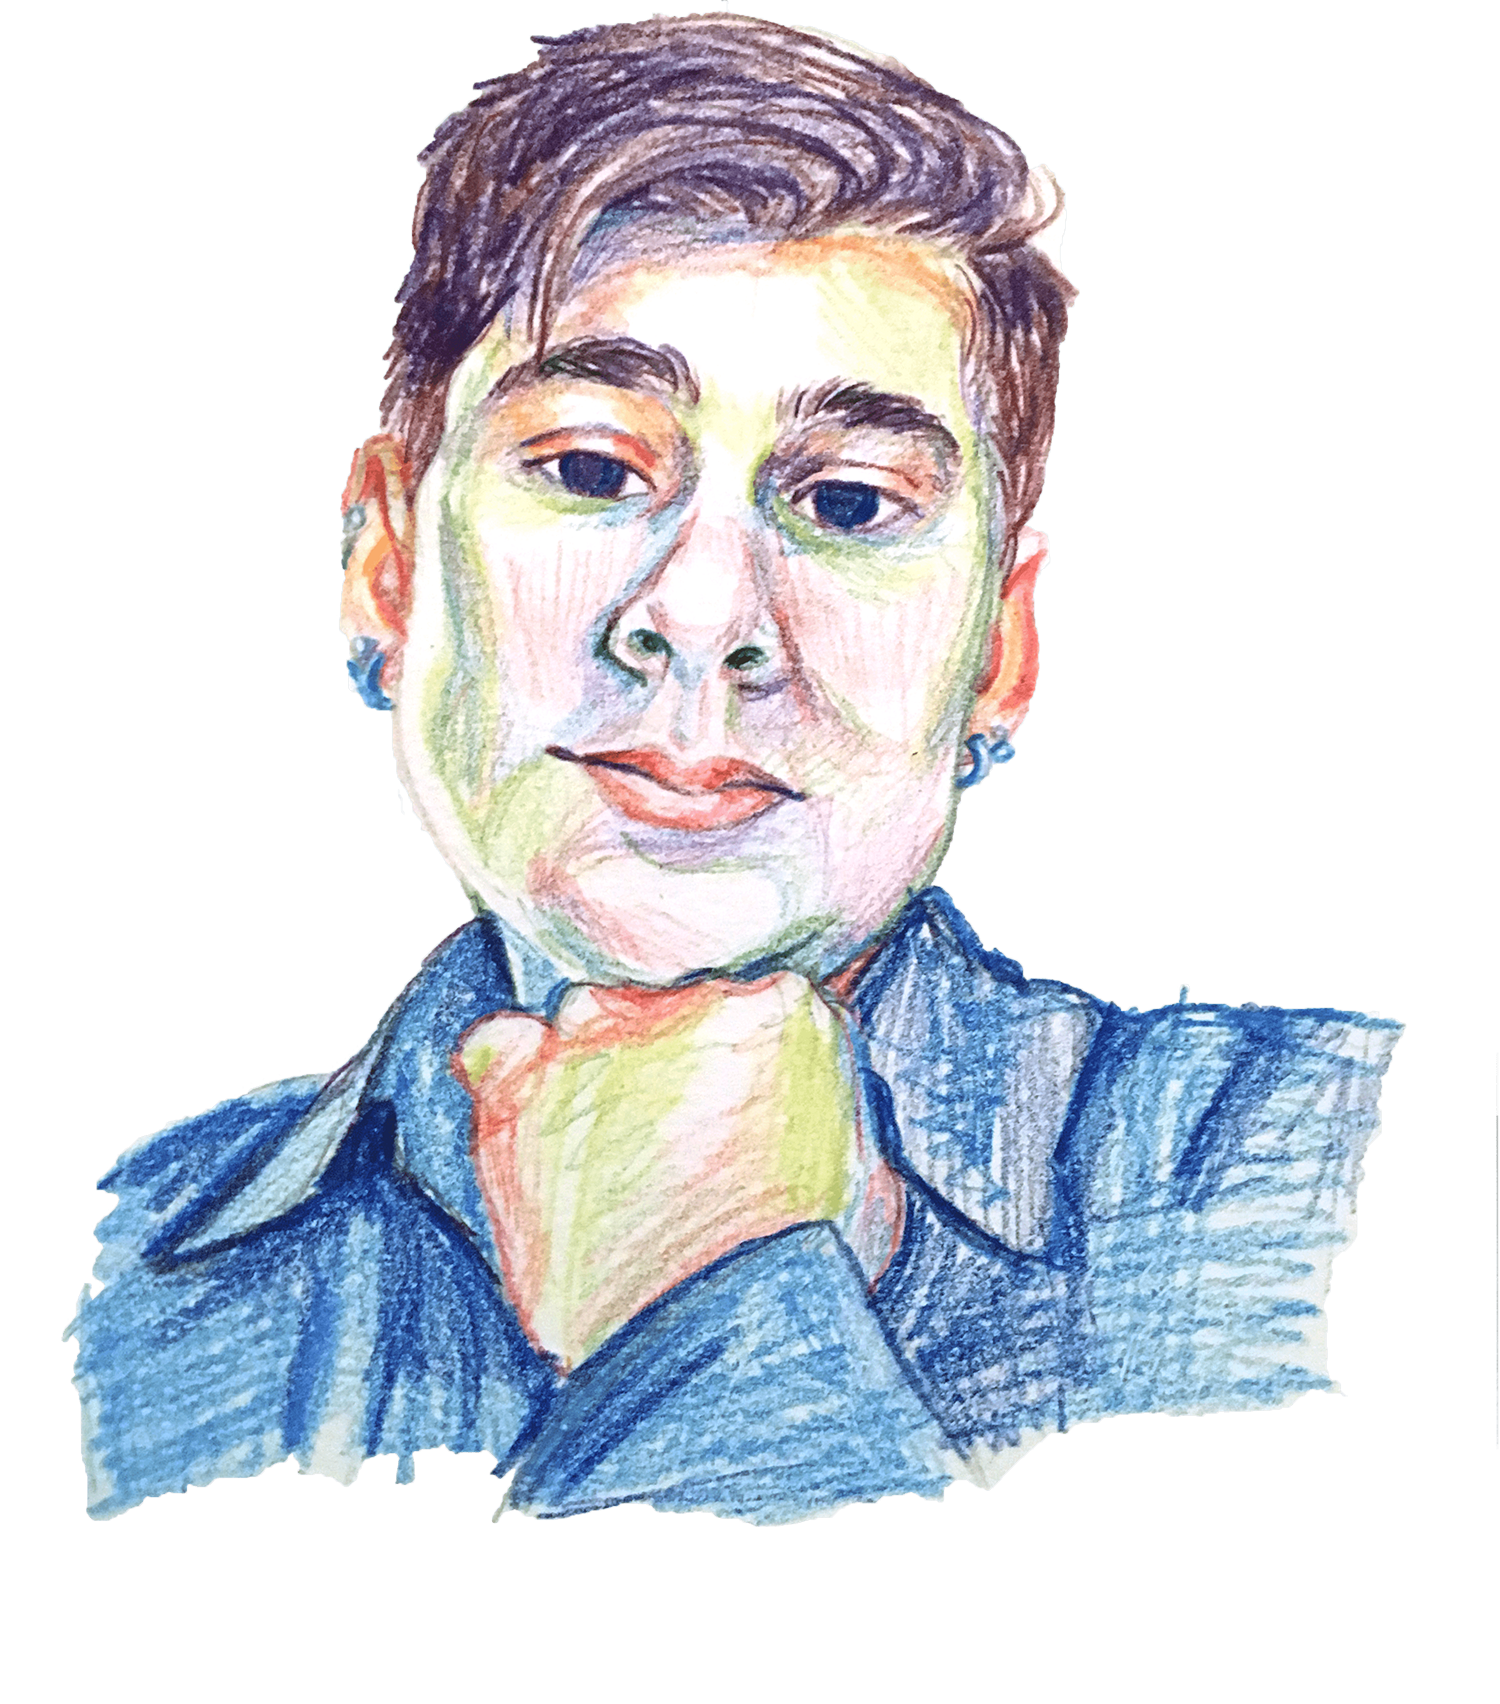
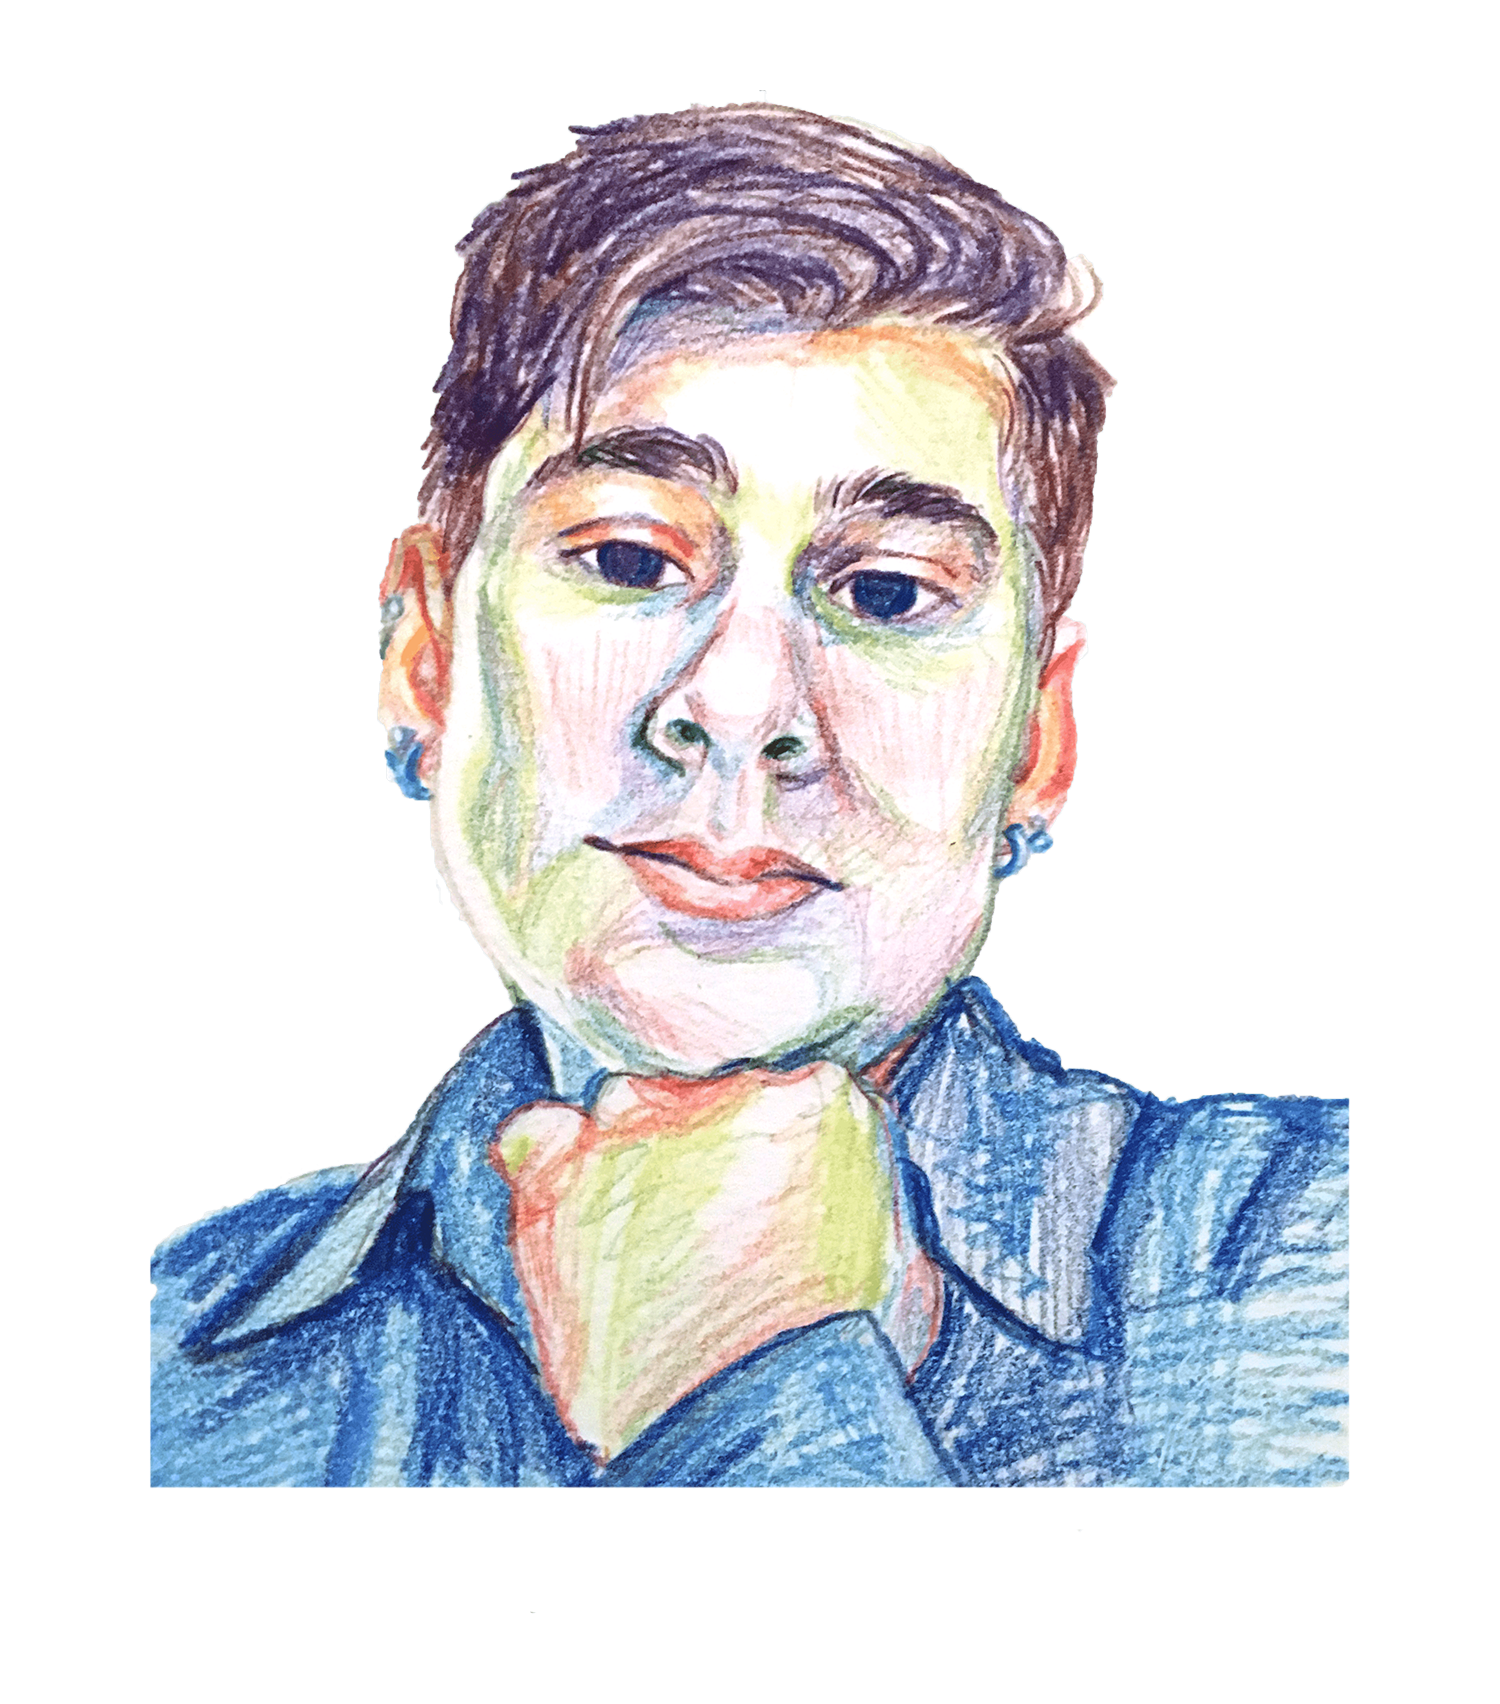
text tweaks and square off about image

diff --git a/about.html b/about.html
@@ -57,8 +57,8 @@
      <div class="flexrow">
      <div class="child">
        <p>Hello there, I'm Selina Gerosa. I'm a graphic and web designer based in NY. I have always loved problem solving, and to me, that's what design is all about. It's the system that helps us solve problems in innovative ways.<p>
-       <p>I recently recieved a BFA in graphic design from Boston University, but my creative journey began way before that. In my middle school art class, one of our projects was to regularly use a sketchbook. I began keeping one with me wherever I went, and today, I still do. In fact, you can see I've been making <a href="https://instagram.com/sketcharoony">@sketcharoony</a> . I found my passion for graphic design in high school after taking an AP art class and since then, my love of design has only grown.</p>
-       <p>Nowadays, I spend most of my time designing websites and running social media campaigns. In my spare time, I read academic papers about internet culture, watch niche cartoons, and make mini websites <a href="https://selinas-site-experiments.netlify.com">@https://selinas-site-experiments.netlify.com</a>.</p>
+       <p>I recently earmed a BFA in graphic design from Boston University, but my creative journey began way before that. I started keeping a sketchpad after one of my middle school art class assignments was to draw regularly in one. I've kept one close by ever since. Check out my digital sketchpad + all my creative work <a href="https://instagram.com/sketcharoony">@sketcharoony</a> . I found my passion for graphic design in high school after taking an AP art class and since then, my love of design has only grown.</p>
+       <p>Nowadays, I spend most of my time designing websites, running social media campaigns, and looking for new and interesting projects. In my spare time, I read academic papers about internet culture, watch niche cartoons, and make mini websites <a href="https://selinas-site-experiments.netlify.com">@https://selinas-site-experiments.netlify.com</a>.</p>
        <p>If you're interested in really getting to know me, and want to see some of my other projects, head over to my creative portfolio @<a href="https://slimetime.online">https://slimetime.online</a>.</p>
        <p><a href="contact.html">Interested in working with me?</a></p>
      </div>

diff --git a/contact.html b/contact.html
@@ -55,7 +55,7 @@
 <div id="dark" onclick="localStorage.setItem('mode', (localStorage.getItem('mode') || 'dark') === 'dark' ? 'light' : 'dark'); localStorage.getItem('mode') === 'dark' ? document.querySelector('body').classList.add('dark') : document.querySelector('body').classList.remove('dark')" title="Dark/light"></div>
    <div class="parent">
      <div class="child">
-       <p>Whether it's a website, a brand identity, or another project, I would love to work with you! You might also want to email me if you want to talk about how memes are a dadaist artform or hear about my thesis project on the linguistics of webspeak.</p>
+       <p>Whether it's print, digital, or experiential, I would love to work with you! You might also want to email me if you want to talk about how memes are a dadaist artform or hear about my thesis project on the linguistics of webspeak.</p>
        <p><a href="mailto:selinagerosa@gmail.com">selinagerosa@gmail.com</a></p>
        <p><a href="Selina_Gerosa_resume.pdf">resume.pdf</a></p>
        <p><a href="https://github.com/selinagerosa">https://github.com/&#8203;selinagerosa</a></p>
